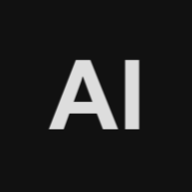
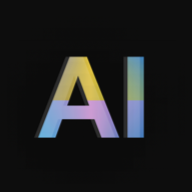
More fun

Changed region(s): [[0.1875, 0.2812, 0.75, 0.7188]]

diff --git a/index.html b/index.html
@@ -44,8 +44,8 @@
             background-repeat: no-repeat;
             background-position: 50% 0%;
             background-image: radial-gradient(circle at 65% 104%, #276da755 0%, #38444c00 20%),
-                radial-gradient(circle at 25% 159%, #4f95caee 0%, #38444c00 40%),
-                radial-gradient(circle at 80% 120%, #4f6f85bb 0%, #38444c00 28%),
+                radial-gradient(circle at 25% 159%, #f6a2f6ee 0%, #38444c00 40%),
+                radial-gradient(circle at 80% 120%, #ffd50066 0%, #38444c00 28%),
                 radial-gradient(circle at 58% 105%, #28496088 0%, #38444c00 31%),
                 radial-gradient(circle at center, #111111e8 0%, #111111f8 60%, #111111ff 100%);
         }
@@ -97,7 +97,20 @@
             margin: 0;
             font-size: 1.8em;
             transition: transform .5s ease-in-out;
-            text-shadow: 0 5px 25px rgba(0, 0, 0, .5);
+            text-shadow: -1px 0px 0px #ffffff22, 0 5px 25px rgba(0, 0, 0, .9);
+            background: conic-gradient(
+                #f6a2f6,
+                #1f87cd,
+                #1f87cd,
+                #ffd500,
+                #727de3,
+                #13c4fa,
+                #f6a2f6
+            );
+            background-position: 4em 2em;
+            background-clip: text;
+            -webkit-text-fill-color: transparent;
+            text-fill-color: transparent;
         }
 
         .header button {
